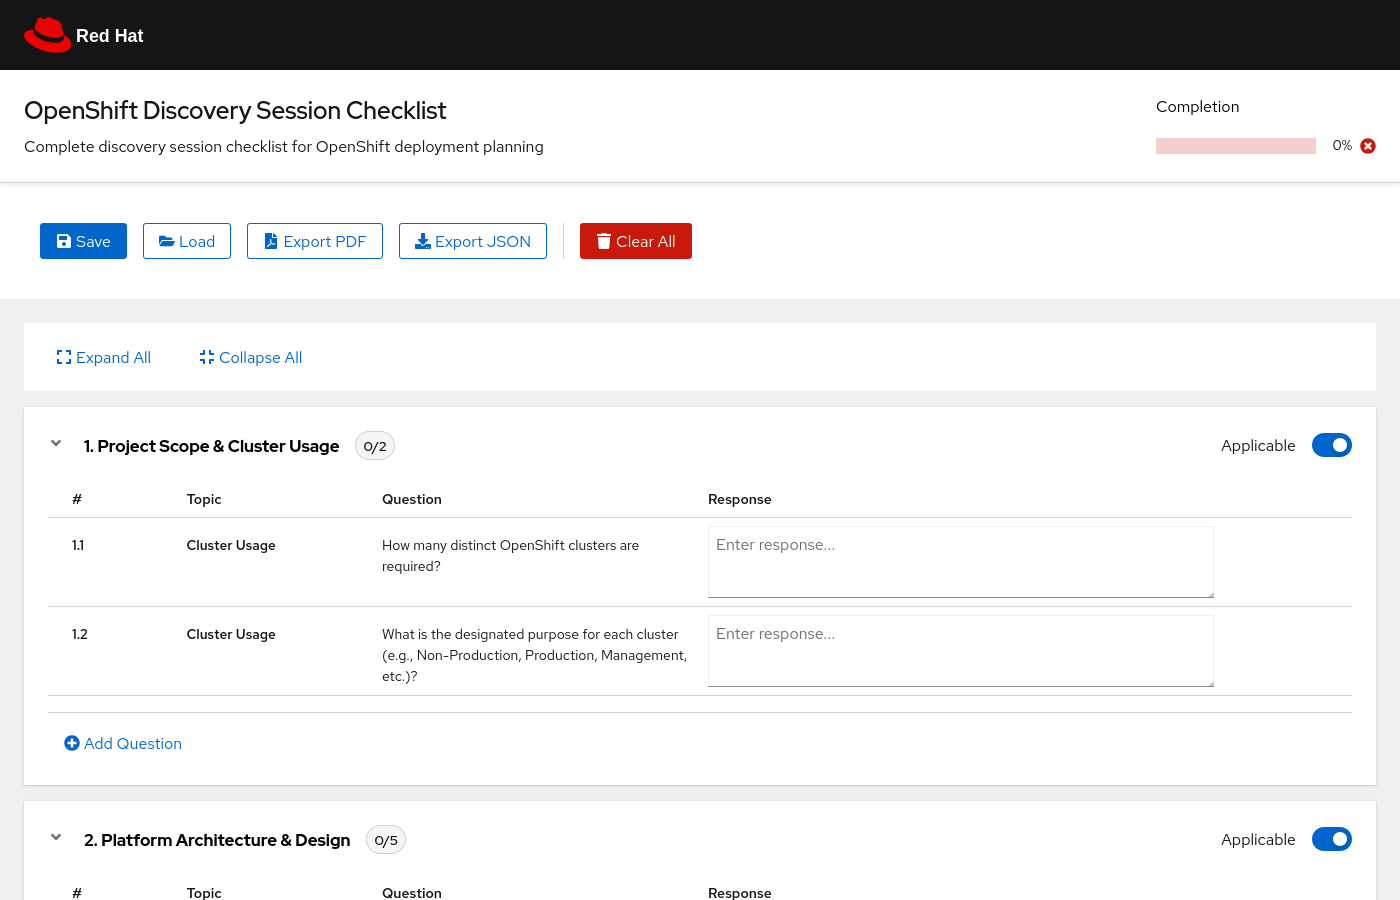
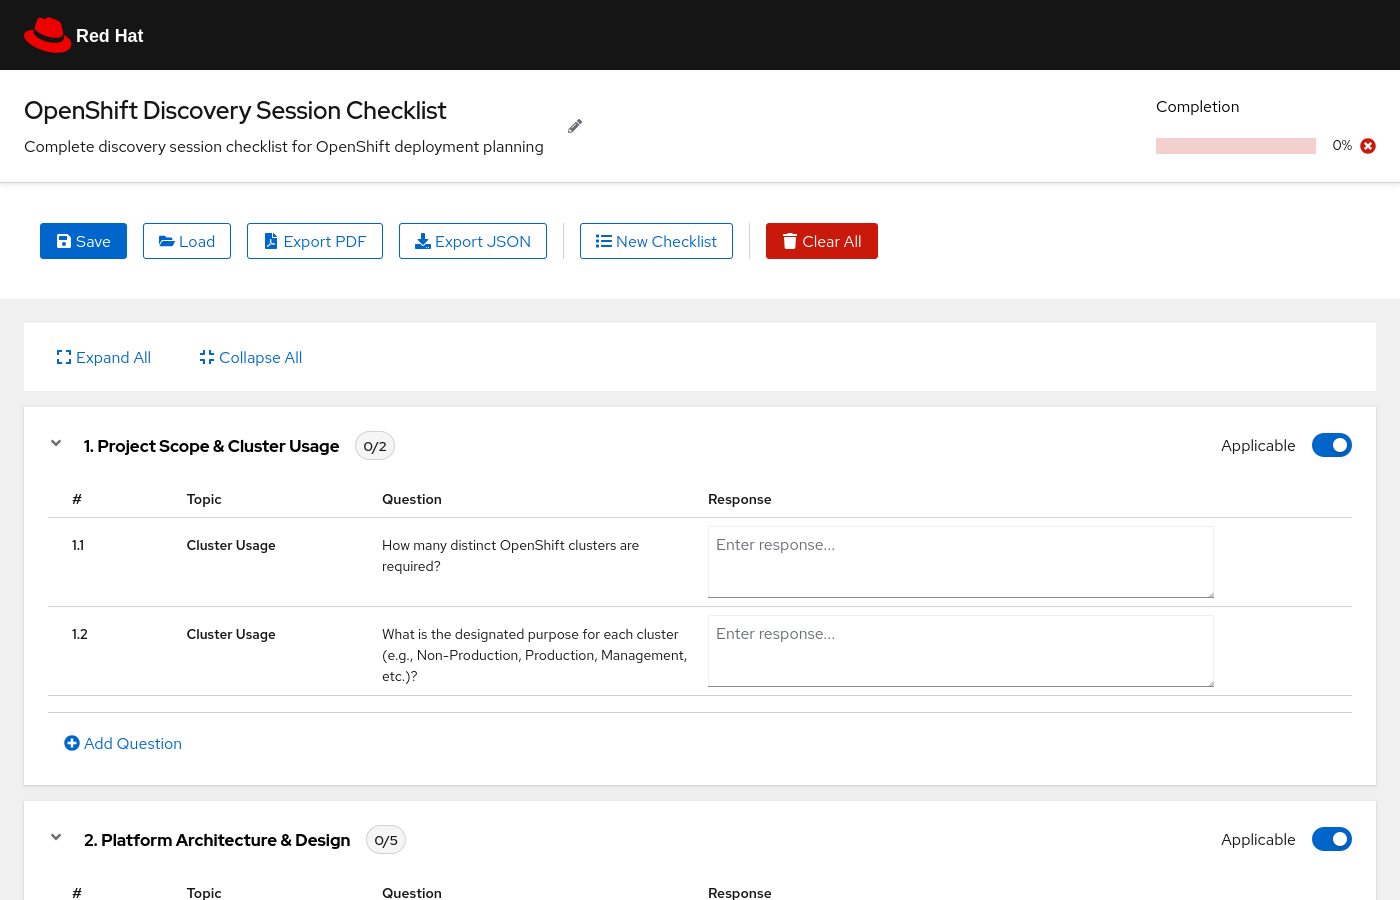
Update README with generator screenshots and custom title documentation
Made-with: Cursor

Changed region(s): [[0.3993, 0.2489, 0.645, 0.3111]]

diff --git a/README.md b/README.md
@@ -84,9 +84,19 @@ The output goes to `dist/`. You can serve it with any web server (nginx, Apache,
 
 ## Features
 
-### Checklist with collapsible sections
+### Custom document title
 
-Each of the 10 predefined sections can be expanded or collapsed. Use **Expand All** / **Collapse All** for quick navigation. Click anywhere on the section title or the toggle arrow to expand.
+Click the **pencil icon** next to the title to edit the document title and subtitle. Your custom title appears in the app header, PDF export, and footer. Persisted across sessions.
+
+### Checklist Generator
+
+Click **"New Checklist"** in the toolbar to build a checklist from scratch. Define your own sections and questions, reorder with arrow buttons, and click **"Create Checklist"** to start your session. Use **"Reset to Template"** to go back to the default OpenShift checklist.
+
+![Checklist Generator](docs/screenshots/generator.png)
+
+### Collapsible sections
+
+Each section can be expanded or collapsed. Use **Expand All** / **Collapse All** for quick navigation. Click anywhere on the section title or the toggle arrow to expand.
 
 ![Collapsed sections](docs/screenshots/collapsed.png)
 
@@ -114,7 +124,7 @@ The interface adapts to screen size. On desktop, questions are displayed in a ta
 
 ### Branded PDF export
 
-Export a professional, print-ready PDF with Red Hat branding. The PDF includes a branded header, progress summary, all sections and responses, and proper handling of skipped sections.
+Export a professional, print-ready PDF with Red Hat branding. The PDF includes your custom document title, a branded header, progress summary, all sections and responses, and proper handling of skipped sections.
 
 ### Data persistence and portability
 
